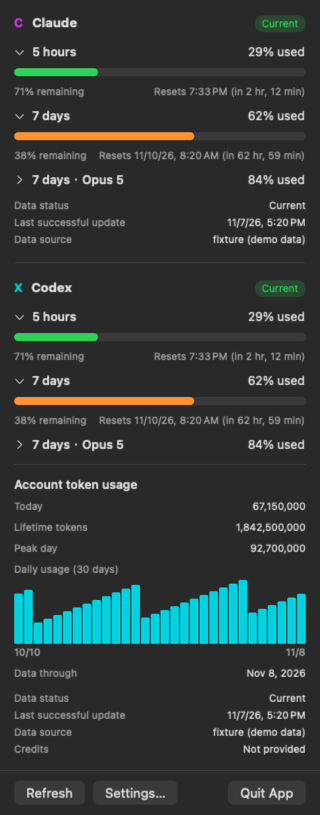
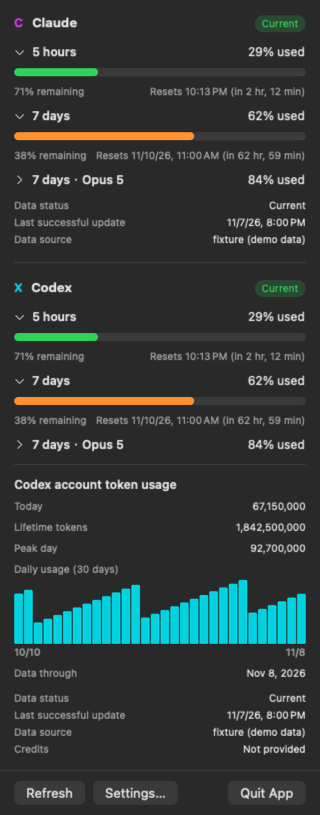
feat: show remaining quota in both menu bar windows

diff --git a/macos/AgentUsageBar/Tests/UsageMeterCoreTests/GaugeStyleTests.swift b/macos/AgentUsageBar/Tests/UsageMeterCoreTests/GaugeStyleTests.swift
@@ -20,6 +20,67 @@ struct GaugeStyleTests {
         )
     }
 
+    func quotaSnapshot(
+        provider: ProviderKind, sessionUsed: Double, weeklyUsed: Double, now: Date
+    ) -> UsageSnapshot {
+        UsageSnapshot(
+            provider: provider, sourcePath: .fixture,
+            windows: [
+                UsageWindow(
+                    kind: .session, group: .session, used: UsedPercent(hundredScale: sessionUsed),
+                    resetsAt: now.addingTimeInterval(3_600), isActive: false,
+                    durationMinutes: provider == .codex ? 300 : nil
+                ),
+                UsageWindow(
+                    kind: .weeklyAll, group: .weekly, used: UsedPercent(hundredScale: weeklyUsed),
+                    resetsAt: now.addingTimeInterval(86_400), isActive: false,
+                    durationMinutes: provider == .codex ? 10_080 : nil
+                ),
+            ], fetchedAt: now
+        )
+    }
+
+    @Test("兩家兩個時間窗在剩餘 10% 以下顯示數字，含 0%", arguments: ProviderKind.allCases)
+    func lowQuotaBoundaries(provider: ProviderKind) {
+        let now = Date(timeIntervalSince1970: 1_000_000)
+        let cases: [(Double, Int?)] = [(89, nil), (90, 10), (91, 9), (99, 1), (100, 0)]
+        for (used, remaining) in cases {
+            let base = quotaSnapshot(provider: provider, sessionUsed: used, weeklyUsed: used, now: now)
+            let model = GaugeStyleResolver.renderModel(provider: provider, state: .current(base), now: now)
+            #expect(model.session.lowRemainingPercent == remaining)
+            #expect(model.weekly.lowRemainingPercent == remaining)
+        }
+    }
+
+    @Test("低額度數字只切換自己的半格", arguments: ProviderKind.allCases)
+    func lowQuotaSlotsAreIndependent(provider: ProviderKind) {
+        let now = Date(timeIntervalSince1970: 1_000_000)
+        let cases: [(Double, Double, Int?, Int?)] = [
+            (99, 62, 1, nil), (29, 91, nil, 9), (90, 99, 10, 1),
+        ]
+        for (sessionUsed, weeklyUsed, sessionRemaining, weeklyRemaining) in cases {
+            let base = quotaSnapshot(provider: provider, sessionUsed: sessionUsed, weeklyUsed: weeklyUsed, now: now)
+            let model = GaugeStyleResolver.renderModel(provider: provider, state: .current(base), now: now)
+            #expect(model.session.lowRemainingPercent == sessionRemaining)
+            #expect(model.weekly.lowRemainingPercent == weeklyRemaining)
+        }
+    }
+
+    @Test("過期與限流讀數不以數字掩蓋狀態，更新中保留可信數字", arguments: ProviderKind.allCases)
+    func lowQuotaHonorsDataState(provider: ProviderKind) {
+        let now = Date(timeIntervalSince1970: 1_000_000)
+        let base = quotaSnapshot(provider: provider, sessionUsed: 99, weeklyUsed: 100, now: now)
+        for state in [UsageDisplayState.stale(base, reason: .offline),
+                      .throttled(previous: base, until: now.addingTimeInterval(60)), .starting] {
+            let model = GaugeStyleResolver.renderModel(provider: provider, state: state, now: now)
+            #expect(model.session.lowRemainingPercent == nil)
+            #expect(model.weekly.lowRemainingPercent == nil)
+        }
+        let refreshing = GaugeStyleResolver.renderModel(provider: provider, state: .refreshing(previous: base), now: now)
+        #expect(refreshing.session.lowRemainingPercent == 1)
+        #expect(refreshing.weekly.lowRemainingPercent == 0)
+    }
+
     /// The server's own verdict is coarser than the number: it called a window at 58%
     /// consumed "normal", which painted a half-spent bar green while the label beside
     /// it read 58%. Colour now follows the figure so the two cannot disagree.
@@ -115,12 +176,16 @@ struct GaugeStyleTests {
         let model = GaugeStyleResolver.renderModel(provider: .claude, state: .current(base))
         #expect(model.session.availability == .reported)
         #expect(model.session.fillFraction == 0)
+        #expect(model.session.lowRemainingPercent == nil)
         #expect(model.weekly.availability == .unknown)
         #expect(model.weekly.fillLevel == .unknown)
+        #expect(model.weekly.lowRemainingPercent == nil)
         let noSession = UsageSnapshot(provider: .claude, sourcePath: .claudeCodeCLI, windows: [], fetchedAt: Date(), claudeLimitListReported: true)
         let absent = GaugeStyleResolver.renderModel(provider: .claude, state: .current(noSession))
         #expect(absent.session.availability == .notListed)
         #expect(absent.weekly.availability == .notListed)
+        #expect(absent.session.lowRemainingPercent == nil)
+        #expect(absent.weekly.lowRemainingPercent == nil)
         #expect(!absent.accessibilityLabel.contains("0%"))
     }
 
@@ -138,12 +203,14 @@ struct GaugeStyleTests {
         let now = Date(timeIntervalSince1970: 1_000_000)
         let windows = [
             UsageWindow(kind: .session, group: .session, used: UsedPercent(hundredScale: 91), resetsAt: now.addingTimeInterval(-61), isActive: false),
-            UsageWindow(kind: .weeklyAll, group: .weekly, used: UsedPercent(hundredScale: 30), resetsAt: now.addingTimeInterval(3_600), isActive: false),
+            UsageWindow(kind: .weeklyAll, group: .weekly, used: UsedPercent(hundredScale: 99), resetsAt: now.addingTimeInterval(3_600), isActive: false),
         ]
         let base = UsageSnapshot(provider: .claude, sourcePath: .fixture, windows: windows, fetchedAt: now)
         let model = GaugeStyleResolver.renderModel(provider: .claude, state: .current(base), now: now)
         #expect(model.session.frameStyle == .staleMarked)
         #expect(model.weekly.frameStyle == .solid)
+        #expect(model.session.lowRemainingPercent == nil)
+        #expect(model.weekly.lowRemainingPercent == 1)
         #expect(model.accessibilityLabel.contains("past reset"))
     }
 

diff --git a/macos/AgentUsageBar/Sources/AgentUsageBar/UI/GaugeContactSheet.swift b/macos/AgentUsageBar/Sources/AgentUsageBar/UI/GaugeContactSheet.swift
@@ -147,14 +147,21 @@ enum GaugeContactSheet {
 
     /// A compact, synthetic-only view of the production renderer at 1x and 2.5x.
     private static func writeLowQuotaPreview(to url: URL) throws {
-        let image = NSImage(size: NSSize(width: 720, height: 230), flipped: true) { _ in
+        let image = NSImage(size: NSSize(width: 720, height: 440), flipped: true) { _ in
             NSColor.white.setFill()
-            NSBezierPath(rect: NSRect(x: 0, y: 0, width: 720, height: 230)).fill()
+            NSBezierPath(rect: NSRect(x: 0, y: 0, width: 720, height: 440)).fill()
             drawText("Synthetic data · production renderer · 1x / 2.5x", at: NSPoint(x: 16, y: 10), color: .black)
-            for (index, title) in ["9% remaining", "0% remaining", "Combined: 9% + 1%"].enumerated() {
-                drawText(title, at: NSPoint(x: 16 + CGFloat(index) * 232, y: 34), bold: true, color: .black)
-            }
-            for (dark, rowTop) in [(false, CGFloat(56)), (true, CGFloat(142))] {
+            let rows: [(Bool, CGFloat)] = [(false, 54), (true, 140), (false, 266), (true, 352)]
+            for (row, (dark, rowTop)) in rows.enumerated() {
+                let secondGroup = row >= 2
+                if !dark {
+                    let titles = secondGroup
+                        ? ["Both: 10% remaining", "Both: 0% remaining", "Combined: week 9% / 1%+10%"]
+                        : ["5h: 9% remaining", "Week: 9% remaining", "Both: 5h 1%, week 10%"]
+                    for (index, title) in titles.enumerated() {
+                        drawText(title, at: NSPoint(x: 16 + CGFloat(index) * 232, y: rowTop - 22), bold: true, color: .black)
+                    }
+                }
                 let appearance = NSAppearance(named: dark ? .darkAqua : .aqua)!
                 (dark ? NSColor(white: 0.13, alpha: 1) : NSColor(white: 0.97, alpha: 1)).setFill()
                 NSBezierPath(rect: NSRect(x: 8, y: rowTop, width: 704, height: 82)).fill()
@@ -163,12 +170,16 @@ enum GaugeContactSheet {
                         (GaugeStyleResolver.renderModel(provider: provider, state: scenario.state(provider: provider)),
                          SettingsStore.defaultColor(for: provider).nsColor)
                     }
-                    let codex = entry(.codex, .lowSession)
-                    let exhausted = entry(.claude, .exhausted)
-                    let images = [
-                        GaugeImageRenderer.image(for: codex.model, identityColor: codex.identityColor),
-                        GaugeImageRenderer.image(for: exhausted.model, identityColor: exhausted.identityColor),
-                        GaugeImageRenderer.combinedImage(for: [entry(.claude, .lowSession), entry(.codex, .lastPercent)]),
+                    func single(_ provider: ProviderKind, _ scenario: DemoScenario) -> NSImage {
+                        let value = entry(provider, scenario)
+                        return GaugeImageRenderer.image(for: value.model, identityColor: value.identityColor)
+                    }
+                    let images = secondGroup ? [
+                        single(.claude, .lowQuotaBoundary),
+                        single(.codex, .exhausted),
+                        GaugeImageRenderer.combinedImage(for: [entry(.claude, .lowWeekly), entry(.codex, .bothLow)]),
+                    ] : [
+                        single(.codex, .lowSession), single(.claude, .lowWeekly), single(.codex, .bothLow),
                     ]
                     for (index, badge) in images.enumerated() {
                         let x = 16 + CGFloat(index) * 232

diff --git a/macos/AgentUsageBar/Sources/AgentUsageBar/Gauge/GaugeImageRenderer.swift b/macos/AgentUsageBar/Sources/AgentUsageBar/Gauge/GaugeImageRenderer.swift
@@ -1,4 +1,5 @@
 import AppKit
+import CoreText
 import UsageMeterCore
 
 /// Draws the menu bar gauge.
@@ -91,7 +92,11 @@ enum GaugeImageRenderer {
                 NSColor.secondaryLabelColor.setStroke()
                 slash.stroke()
             case .reported:
-                drawFill(model: segment, in: rect)
+                if let remaining = segment.lowRemainingPercent {
+                    drawRemainingBadge(remaining, in: rect)
+                } else {
+                    drawFill(model: segment, in: rect)
+                }
                 if segment.frameStyle == .staleMarked && model.frameStyle != .staleMarked {
                     drawStaleMark(near: rect)
                 }
@@ -101,6 +106,51 @@ enum GaugeImageRenderer {
         if model.frameStyle == .staleMarked {
             drawStaleMark(near: frameRect)
         }
+    }
+
+    /// Stack the number and percent sign inside the existing half. The frame,
+    /// divider and provider letter stay fixed even when both windows are low.
+    private static func drawRemainingBadge(_ remaining: Int, in rect: NSRect) {
+        NSColor.systemRed.withAlphaComponent(0.20).setFill()
+        NSBezierPath(roundedRect: rect, xRadius: 1, yRadius: 1).fill()
+
+        let content = rect.insetBy(dx: 0, dy: -0.5)
+        let percentHeight: CGFloat = 4.5
+        let gap: CGFloat = 1
+        let numberRect = NSRect(
+            x: content.minX, y: content.minY + percentHeight + gap,
+            width: content.width, height: content.height - percentHeight - gap
+        )
+        let percentRect = NSRect(
+            x: content.minX, y: content.minY,
+            width: content.width, height: percentHeight
+        )
+        drawBadgeText(String(remaining), fontSize: 10, in: numberRect)
+        drawBadgeText("%", fontSize: 6, in: percentRect)
+    }
+
+    /// Fit glyph ink, rather than font line-height padding, to a narrow half.
+    private static func drawBadgeText(_ value: String, fontSize: CGFloat, in rect: NSRect) {
+        func line(at size: CGFloat) -> CTLine {
+            CTLineCreateWithAttributedString(NSAttributedString(string: value, attributes: [
+                .font: NSFont.monospacedDigitSystemFont(ofSize: size, weight: .semibold),
+                .foregroundColor: NSColor.labelColor,
+            ]))
+        }
+        var text = line(at: fontSize)
+        var ink = CTLineGetBoundsWithOptions(text, .useGlyphPathBounds)
+        guard ink.width > 0, ink.height > 0,
+              let context = NSGraphicsContext.current?.cgContext else { return }
+        let scale = min(1, rect.width / ink.width, rect.height / ink.height)
+        if scale < 1 {
+            text = line(at: fontSize * scale)
+            ink = CTLineGetBoundsWithOptions(text, .useGlyphPathBounds)
+        }
+        context.saveGState()
+        defer { context.restoreGState() }
+        context.textMatrix = .identity
+        context.textPosition = CGPoint(x: rect.midX - ink.midX, y: rect.midY - ink.midY)
+        CTLineDraw(text, context)
     }
 
     private static func drawGlyph(_ glyph: String, color: NSColor) {

diff --git a/macos/AgentUsageBar/Sources/AgentUsageBar/UI/DemoScenario.swift b/macos/AgentUsageBar/Sources/AgentUsageBar/UI/DemoScenario.swift
@@ -13,6 +13,8 @@ enum DemoScenario: String, CaseIterable, Sendable, Identifiable {
     case noLimits
     case refreshing
     case lowSession
+    case lowWeekly
+    case bothLow
     case lowQuotaBoundary
     case lastPercent
     case exhausted
@@ -34,6 +36,8 @@ enum DemoScenario: String, CaseIterable, Sendable, Identifiable {
         case .noLimits: "Service listed no limits"
         case .refreshing: "Refreshing (showing previous data)"
         case .lowSession: "5h nearly exhausted (9% remaining)"
+        case .lowWeekly: "Week nearly exhausted (9% remaining)"
+        case .bothLow: "Both low (5h 1%, week 10% remaining)"
         case .lowQuotaBoundary: "Low quota (10% remaining)"
         case .lastPercent: "Last percent (1% remaining)"
         case .exhausted: "Exhausted (100%)"
@@ -76,12 +80,16 @@ enum DemoScenario: String, CaseIterable, Sendable, Identifiable {
             ))
         case .lowSession:
             return .current(Self.snapshot(sessionUsed: 91, weeklyUsed: 74, now: now, provider: provider))
+        case .lowWeekly:
+            return .current(Self.snapshot(sessionUsed: 29, weeklyUsed: 91, now: now, provider: provider))
+        case .bothLow:
+            return .current(Self.snapshot(sessionUsed: 99, weeklyUsed: 90, now: now, provider: provider))
         case .lowQuotaBoundary:
-            return .current(Self.snapshot(sessionUsed: 90, weeklyUsed: 74, now: now, provider: provider))
+            return .current(Self.snapshot(sessionUsed: 90, weeklyUsed: 90, now: now, provider: provider))
         case .lastPercent:
-            return .current(Self.snapshot(sessionUsed: 99, weeklyUsed: 74, now: now, provider: provider))
+            return .current(Self.snapshot(sessionUsed: 99, weeklyUsed: 99, now: now, provider: provider))
         case .exhausted:
-            return .current(Self.snapshot(sessionUsed: 100, weeklyUsed: 91, now: now, provider: provider))
+            return .current(Self.snapshot(sessionUsed: 100, weeklyUsed: 100, now: now, provider: provider))
         case .stale:
             return .stale(
                 Self.snapshot(

diff --git a/macos/AgentUsageBar/Sources/AgentUsageBar/UI/StatusBarSelfTest.swift b/macos/AgentUsageBar/Sources/AgentUsageBar/UI/StatusBarSelfTest.swift
@@ -368,13 +368,24 @@ enum StatusBarSelfTest {
                 }, "\(description): AppKit allocates the complete image plus padding")
             }
             checkImageLayout(layout == .separate ? [27, 27] : [57], "Mixed low-quota layout")
+            claude.applyDemoScenario(.lowWeekly)
+            codex.applyDemoScenario(.bothLow)
+            checkImageLayout(layout == .separate ? [27, 27] : [57], "Weekly and both-window percentages preserve fixed width")
+            check(claude.renderModel.session.lowRemainingPercent == nil && claude.renderModel.weekly.lowRemainingPercent == 9,
+                  "Only the low weekly half switches to a percentage")
+            check(codex.renderModel.session.lowRemainingPercent == 1 && codex.renderModel.weekly.lowRemainingPercent == 10,
+                  "Both low windows show their own remaining percentages, including 10%")
             claude.applyDemoScenario(.lastPercent)
             codex.applyDemoScenario(.exhausted)
             checkImageLayout(layout == .separate ? [27, 27] : [57], "Both low, including exhausted quota")
-            check(codex.renderModel.session.fillLevel == .exhausted, "Exhausted quota keeps its explicit red slash")
+            check(codex.renderModel.session.lowRemainingPercent == 0 && codex.renderModel.weekly.lowRemainingPercent == 0,
+                  "Exhausted current windows show 0% remaining")
             claude.applyDemoScenario(.lowQuotaBoundary)
             codex.applyDemoScenario(.lowQuotaBoundary)
             checkImageLayout(layout == .separate ? [27, 27] : [57], "Quota recovery preserves fixed width")
+            claude.applyDemoScenario(.healthy)
+            codex.applyDemoScenario(.healthy)
+            checkImageLayout(layout == .separate ? [27, 27] : [57], "Healthy bars return without changing width")
             claude.applyDemoScenario(.missingSession)
             codex.applyDemoScenario(.missingWeekly)
             checkImageLayout(layout == .separate ? [27, 27] : [57], "Missing quota preserves both fixed slots")

diff --git a/macos/AgentUsageBar/Sources/UsageMeterCore/Gauge/GaugeStyle.swift b/macos/AgentUsageBar/Sources/UsageMeterCore/Gauge/GaugeStyle.swift
@@ -48,6 +48,15 @@ public struct GaugeWindowRenderModel: Sendable, Hashable {
     public let frameStyle: GaugeFrameStyle
     public let fillFraction: Double
     public let availability: Availability
+
+    /// Each current window switches independently to its remaining percentage at
+    /// 10% or less. Preserve stale/throttled artwork so a number cannot hide state.
+    public var lowRemainingPercent: Int? {
+        guard availability == .reported, frameStyle == .solid,
+              fillFraction.isFinite, (0...1).contains(fillFraction) else { return nil }
+        let remaining = 100 - Int((fillFraction * 100).rounded())
+        return remaining <= 10 ? remaining : nil
+    }
 }
 
 /// One provider, one shared frame, two fixed slots. Neither slot falls back to the

diff --git a/macos/AgentUsageBar/Sources/AgentUsageBar/UI/UsagePopoverView.swift b/macos/AgentUsageBar/Sources/AgentUsageBar/UI/UsagePopoverView.swift
@@ -183,7 +183,7 @@ private struct ProviderSection: View {
     private func codexTokenUsageSection(snapshot: UsageSnapshot) -> some View {
         Divider()
         VStack(alignment: .leading, spacing: 8) {
-            Text(language.text(chinese: "帳號 Token 用量", english: "Account token usage"))
+            Text(language.text(chinese: "Codex 帳號 Token 用量", english: "Codex account token usage"))
                 .font(.callout)
                 .bold()
 

diff --git a/docs/VERIFICATION.md b/docs/VERIFICATION.md
@@ -53,6 +53,10 @@
 
 這裡保留行為與驗證結果，不引用公開前的內部 commit hash。公開基線以可重跑的 `./scripts/verify.sh`、現行 source 與測試作為長期證據。
 
+2026-11-07，低額度數字與供應商標題：Claude／Codex 的 5 小時與一般週額度各自以剩餘整數百分比判斷，10% 以下（含 10%）在原半格內改為「數字在上、% 在下」，耗盡顯示 0%；缺值、過期、超過 reset 與限流維持原本狀態標記，不以數字掩蓋。兩半可同時顯示不同剩餘值，每家 27 × 18 pt／合併 57 × 18 pt 不變。Codex Token 區塊標題補上供應商名稱，提供英文與繁中版本。
+
+`swift test --filter GaugeStyleTests` 通過 **19 項／2 suites**；完整 `./scripts/verify.sh` 通過 **279 項／26 suites**、Debug／Release Xcode builds、隔離 AppKit 固定寬度／低額度切換檢查、雙語繪製、packaging／release fixtures、正式設定未變動與全部靜態護欄。另檢視正式繪圖器產生的原尺寸／放大深淺色圖，包含週額度 9%、兩窗 1%／10%、兩窗 10%、兩窗 0% 與合併版面，並確認合併面板顯示「Codex account token usage」。未執行真實 provider，未替換使用者已安裝的 App；這輪低額度數字的真實選單列驗收仍待安裝候選版後確認。
+
 2026-11-07，共用外框雙時間窗：每家固定 27 × 18 pt，左 5 小時、右所有模型的 7 天，中間一條分隔線；兩家合併圖像固定 57 × 18 pt，低額度不再改成數字徽章或改變寬度。詳情固定保留兩列，0%、尚無資料與 Claude 清單未列出限制保持不同語意。Claude 保留既有固定 `/usage` 指令，只在沒有報告時讀文字；null 清單仍失敗，合法空／部分清單不再以文字補齊，移除「目前綁定」標記。Codex 依實際期間選擇固定窗，原始 `sourceSlot` 用於局部推播合併，涵蓋主要窗是週額度及推播省略期間的情境。新欄位保持舊快照可讀，額外檢查非正期間、重複身分與來源位置。
 
 最終 `./scripts/verify.sh` 通過 **276 項／26 suites**、Debug／Release Xcode builds、隔離 AppKit diagnostics、雙語介面繪製、固定寬度與缺列自我測試、packaging／release fixtures、正式設定未變動及全部靜態護欄。另檢視正式繪圖器產生的深淺色原尺寸／放大圖、缺列情境與合併面板；對照圖裁切已修正。輸出 `dist/gauges.png`、`dist/gauges.low-quota.png`、`dist/ui.png`、`dist/ui.combined-dark.png` 及雙語設定圖。未執行真實 provider、未安裝或建立候選 DMG；原始 Codex 缺列現象尚未在真實帳號重現，仍需安裝後核對來源讀數與顯示結果。

diff --git a/README.en.md b/README.en.md
@@ -38,11 +38,9 @@ This project is not affiliated with or endorsed by Anthropic or OpenAI. All icon
 
 Each provider has one shared rectangular gauge, divided into **five hours on the left and seven days on the right**. Fill height represents the percentage already used. Each provider stays at 27 × 18 pt, and the combined image is 57 × 18 pt. Click it to see detailed values for each usage window.
 
-Both providers already report “percentage used.” Converting that value again would only add confusion, so the number and the gauge communicate the same thing.
-
 - The **outline color** identifies the provider and can be customized.
-- The **fill color** represents usage (0–49% green, 50–79% orange, 80–99% red, and a red slash at 100%) and cannot be customized. Color depends only on the percentage, not on each provider's own severity label; otherwise the same orange would mean different things on adjacent gauges.
-- **Low quota keeps the same width.** Red indicates a near-exhausted window; a red slash indicates exhaustion. Used and remaining percentages for both windows are in the tooltip, VoiceOver label, and popover. A grey dash means no reading; a grey slash means Claude did not list that limit. Neither means 0% used.
+- The **fill color** represents usage (0–49% green, 50–79% orange, 80–99% red, and exhaustion at 100%) and cannot be customized. Color depends only on the percentage, not on each provider's own severity label; otherwise the same orange would mean different things on adjacent gauges.
+- **At 10% remaining or less, each window shows its remaining percentage**, including 10% and an exhausted 0%. The number and percent sign are stacked inside that window's existing half, keeping the width fixed. Stale and rate-limited readings retain their status artwork. Used and remaining percentages are also in the tooltip, VoiceOver label, and popover. A grey dash means no reading; a grey slash means Claude did not list that limit. Neither means 0% used.
 - The **letter on the left** (`C` / `X`) is a second identity cue that does not depend on color, so the providers remain distinguishable for color-blind users or when similar outline colors are selected.
 
 When a provider **explicitly reports failure**, the app never presents old data as current. If a previous value exists, it is marked Stale with its fetch time; without trustworthy data, the app shows Unavailable. The design rule is that **unknown is never drawn as 0%**. The Codex decoder rejects out-of-range or non-integer percentages instead of clamping malformed input into a plausible-looking 0 or 100.

diff --git a/docs/ROADMAP.md b/docs/ROADMAP.md
@@ -4,7 +4,7 @@
 
 **產品與 UI**：Claude／Codex 雙量表、合併選單列圖示、popover 詳情、目前 Space 的設定視窗、內容超出螢幕時才捲動、中英文切換、登入時啟動與原創圖示均已完成並經使用者確認。視覺與互動契約見 [UI_SPEC.md](UI_SPEC.md)。
 
-**共用外框雙時間窗**：每家固定左 5 小時、右 7 天，合併圖像寬 57 pt；詳情保留缺值位置，Claude 合法缺列／空清單與 Codex 依期間分類、原始位置推播合併均已實作並通過本機完整驗證。仍待安裝後使用真實帳號驗收，範圍與證據見 [VERIFICATION.md](VERIFICATION.md) 的 2026-11-07 紀錄。
+**共用外框雙時間窗**：每家固定左 5 小時、右 7 天，合併圖像寬 57 pt；剩餘 10% 以下各自在半格內顯示剩餘數字與 `%`，Codex Token 區塊補上供應商名稱。詳情保留缺值位置，Claude 合法缺列／空清單與 Codex 依期間分類、原始位置推播合併均已實作並通過本機完整驗證。低額度數字仍待安裝後使用真實帳號驗收，範圍與證據見 [VERIFICATION.md](VERIFICATION.md) 的 2026-11-07 紀錄。
 
 **唯讀 providers**：Claude 只執行固定、shell-free 的 `/usage` CLI 查詢；Codex 只使用官方 App Server 的 rate-limit read 與更新通知。兩者各自設定、退避、保存最新讀數，任何一邊失敗不拖累另一邊。資料來源與格式漂移分別見 [CLAUDE_USAGE.md](CLAUDE_USAGE.md) 與 [CODEX_USAGE.md](CODEX_USAGE.md)，共用的安全邊界見 [SAFETY.md](SAFETY.md)。
 
